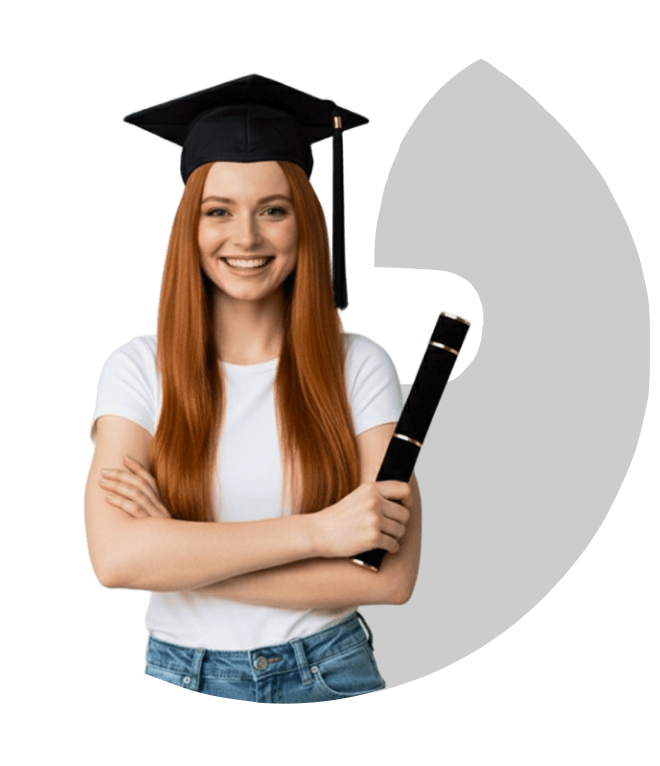
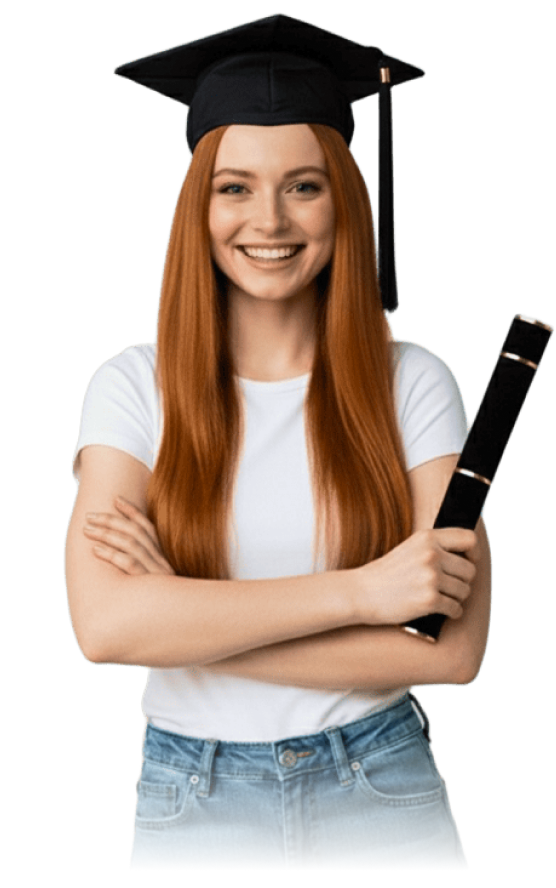
fix: trocar imagem modelo e alinhar as colunas

diff --git a/src/components/Banner/index.tsx b/src/components/Banner/index.tsx
@@ -43,56 +43,53 @@ export default function Banner() {
   );
 
   return (
-    <section className="relative w-full h-full min-h-screen flex flex-col justify-start items-center overflow-hidden px-4 py-10">
+    <section className="relative w-full h-screen min-h-screen flex justify-center gap-[15%] items-center overflow-hidden">
       {/* Imagem de fundo */}
       <img
         src="/banner-bg.png"
         className="absolute bottom-0 left-0 w-full h-full z-0"
         alt=""
-        
+
       />
-
-      <div className="relative flex flex-col sm:flex-row w-full max-w-7xl items-center justify-around z-10 gap-10">
-        {/* Imagem principal */}
-        <div className="flex justify-center items-center">
-          <a href="#form" onClick={handleClick}>
-            <img
-              src="/banner.png"
-              alt="FAIP"
-              className="w-full max-w-[450px] cursor-pointer"
-            />
-          </a>
-        </div>
-
-        {/* Conteúdo à direita */}
-        <div className="flex flex-col items-center text-center px-4">
+        <div className="w-1/2 h-screen flex flex-col sm:flex-row justify-end z-10 gap-10 items-center">
+          {/* Imagem principal */}
           <img
-            src="/vest-faip.png"
-            alt="FAIP"
-            className="w-full max-w-[400px] mb-6"
-          />
-
-          {/* Texto Responsivo */}
-          <div className="w-full max-w-3xl font-bold flex flex-col justify-center items-center text-center text-white mt-6">
-            <span className="text-[70px] sm:text-[50px] md:text-[68px] lg:text-[60px] xl:text-[75px] leading-[1.1]">
-              Cursos 100%
-            </span>
-            <span className="text-[78px] sm:text-[58px] md:text-[78px] lg:text-[96px] xl:text-[85px] leading-[1.1]">
-              Presenciais
-            </span>
-            <span className="text-[42px] sm:text-[31px] md:text-[42px] lg:text-[52px] xl:text-[46px] leading-[1.1] mt-2">
-              Desde o 1° Semestre!
-            </span>
-          </div>
-
-          {/* Botão */}
-          <a href="#form" onClick={handleClick} className="mt-8 w-full flex justify-center">
-            <button className="bg-[#003000] border-1 border-[#3AEE0D] text-white cursor-pointer rounded-[12px] h-12 w-full max-w-[500px] px-6 font-semibold shadow-lg shadow-green-500/40 backdrop-blur-lg transition-all duration-300 hover:bg-[#01832A] hover:text-white transform hover:-translate-y-1">
-              QUERO MINHA BOLSA!
-            </button>
-          </a>
+                src="/banner.png"
+                alt="FAIP"
+                className="h-4/5"
+              />
         </div>
-      </div>
+
+        <div className="w-1/2 flex flex-col sm:flex-row max-w-7xl z-10 gap-100">
+          {/* Conteúdo à direita */}
+          <div className="flex flex-col items-center text-center">
+            <img
+              src="/vest-faip.png"
+              alt="FAIP"
+              className="w-full max-w-[400px] mb-6"
+            />
+
+            {/* Texto Responsivo */}
+            <div className="w-full max-w-3xl font-bold flex flex-col justify-center items-center text-center text-white mt-6">
+              <span className="text-[70px] sm:text-[50px] md:text-[68px] lg:text-[60px] xl:text-[75px] leading-[1.1]">
+                Cursos 100%
+              </span>
+              <span className="text-[78px] sm:text-[58px] md:text-[78px] lg:text-[96px] xl:text-[85px] leading-[1.1]">
+                Presenciais
+              </span>
+              <span className="text-[42px] sm:text-[31px] md:text-[42px] lg:text-[52px] xl:text-[46px] leading-[1.1] mt-2">
+                Desde o 1° Semestre!
+              </span>
+            </div>
+
+            {/* Botão */}
+            <a href="#form" onClick={handleClick} className="mt-8 w-full flex justify-center">
+              <button className="bg-[#003000] border-1 border-[#3AEE0D] text-white cursor-pointer rounded-[12px] h-12 w-full max-w-[500px] px-6 font-semibold shadow-lg shadow-green-500/40 backdrop-blur-lg transition-all duration-300 hover:bg-[#01832A] hover:text-white transform hover:-translate-y-1">
+                QUERO MINHA BOLSA!
+              </button>
+            </a>
+          </div>
+        </div>
     </section>
   );
 }

diff --git a/src/components/Form/index.tsx b/src/components/Form/index.tsx
@@ -39,27 +39,31 @@ export default function Form() {
 
   return (
     <section
-      className="relative min-h-screen flex justify-center items-center text-center overflow-hidden p-6 sm:p-10"
+      className="relative w-full min-h-screen flex justify-between items-center gap-[15%] text-center overflow-hidden p-6 sm:p-10"
       id="form"
     >
       <div className="absolute top-0 left-0 w-full h-full z-0">
-        <img src="/faip-bg.png" alt="FAIP" className="w-full h-full absolute bottom-0 left-0 w-full h-full z-0" />
+        <img src="/faip-bg.png" alt="FAIP" className="w-full h-full absolute bottom-0 left-0 z-0" />
       </div>
 
-      <div className="z-10 flex flex-col lg:flex-row gap-10 lg:gap-32 items-center justify-center w-full">
-        <div className="font-bold text-white flex flex-col items-center lg:items-center">
-          <h1 className="text-3xl sm:text-4xl">100% PRESENCIAL</h1>
-          <h1 className="text-4xl sm:text-5xl">100% FAIP</h1>
-          <h1 className="text-2xl sm:text-3xl">100% VOCÊ!</h1>
-          <img src="selo-mec.png" alt="Selo MEC" className="mt-4" />
+      {/* <div className="z-10 flex flex-col lg:flex-row gap-10 lg:gap-32 items-center justify-center w-1/2"> */}
+
+      <div className="w-1/2 h-screen z-10 flex justify-end items-center">
+        <div className="font-bold text-white flex flex-col lg:items-center w-auto">
+          <h1 className="text-[clamp(1.5rem,6vw,3.5rem)]">100% PRESENCIAL</h1>
+          <h1 className="text-[clamp(2rem,8vw,4.5rem)]">100% FAIP</h1>
+          <h1 className="text-[clamp(1.25rem,4vw,2.5rem)]">100% VOCÊ!</h1>
+          <img
+            src="selo-mec.png"
+            alt="Selo MEC"
+            className="mt-4 w-4/5"
+          />
         </div>
-
-        <div
-        id="section-2-form"
-        className="w-full max-w-[560px] rounded-[10px] px-3 sm:px-8 py-4 sm:py-10 h-full flex justify-center"
-      >
-        <noscript>Para visualizar o formulário, ative o JavaScript no seu navegador.</noscript>
       </div>
+
+
+      <div id="section-2-form" className="flex justify-left z-10 w-1/2">
+        <noscript>Para visualizar o formulário, ative o JavaScript no seu navegador.</noscript>
       </div>
     </section>
   );
